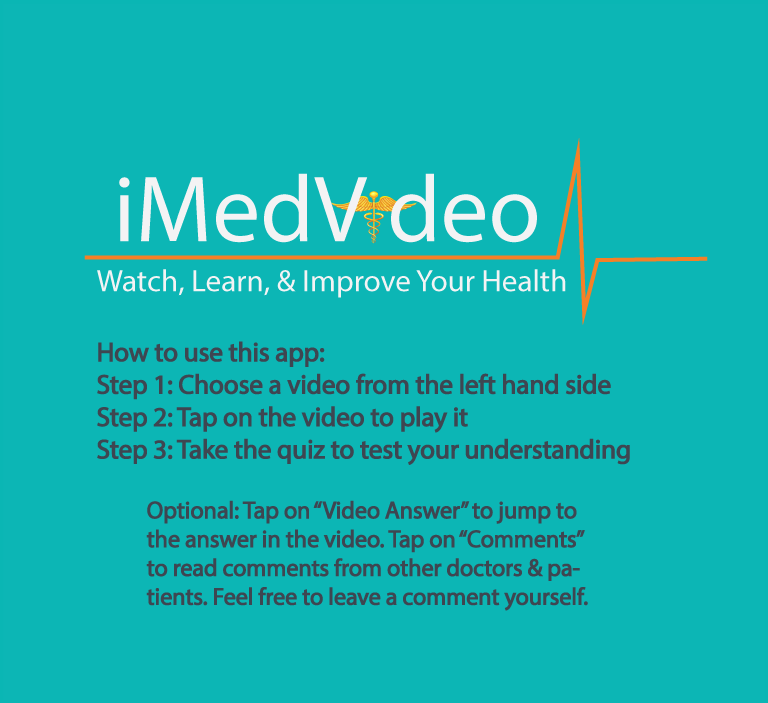
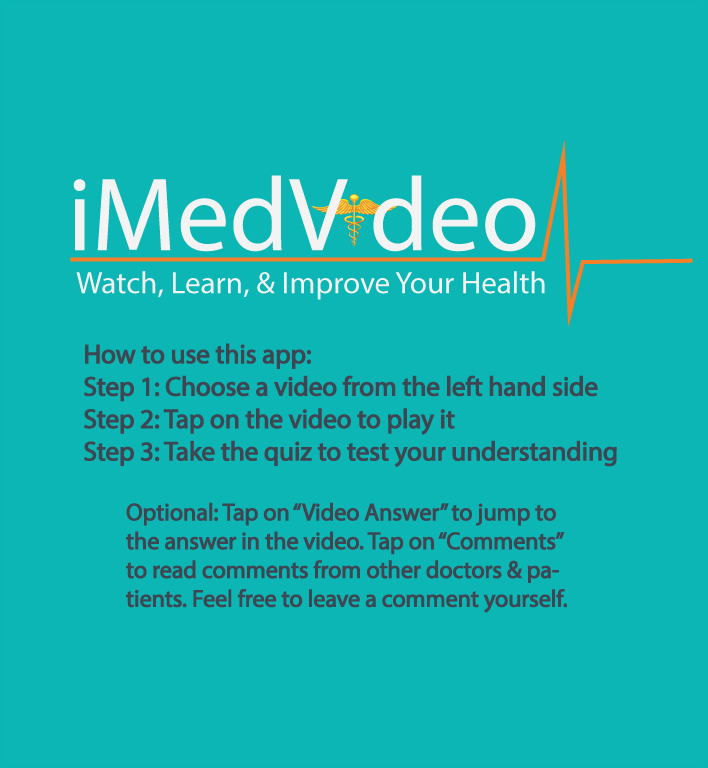
updated files.

Changed region(s): [[0.0932, 0.4481, 0.8701, 0.8663], [0.0932, 0.1792, 0.9944, 0.4481]]

diff --git a/MedAppJam/CommentsView.m b/MedAppJam/CommentsView.m
@@ -38,14 +38,14 @@
             //If doctor add the Doctor Icon
             if(object.isDoctor){
                 UIImageView *iconView = [[UIImageView alloc] initWithFrame:CGRectMake(0, object.frame.origin.y, 20, 20)];//original 15, 15
-                UIImage *image = [UIImage imageNamed:@"newDoctorIcon.jpg"];
+                UIImage *image = [UIImage imageNamed:@"newDoctorIcon.png"];
                 iconView.image = image;
                 [self addSubview:iconView];
             }
             //else if patient add the Patient Icon
             else{
                 UIImageView *iconView = [[UIImageView alloc] initWithFrame:CGRectMake(0, object.frame.origin.y, 20, 20)]; // original 15, 15
-                UIImage *image = [UIImage imageNamed:@"newPatientIcon.jpg"];
+                UIImage *image = [UIImage imageNamed:@"newPatientIcon.png"];
                 iconView.image = image;
                 [self addSubview:iconView];
             }

diff --git a/MedAppJam/DetailViewController.m b/MedAppJam/DetailViewController.m
@@ -36,8 +36,8 @@
 
 - (void)viewDidLoad{
     [super viewDidLoad];
-    
-    self.instructionView = [[UIImageView alloc] initWithFrame:CGRectMake(0, self.player.frame.origin.y, 703, 500)];
+
+    self.instructionView = [[UIImageView alloc] initWithFrame:CGRectMake(0, self.player.frame.origin.y, 703, 768)];
     UIImage *instructionImage = [UIImage imageNamed:@"intro_screen_instructions.png"];
     self.instructionView.image = instructionImage;
     
